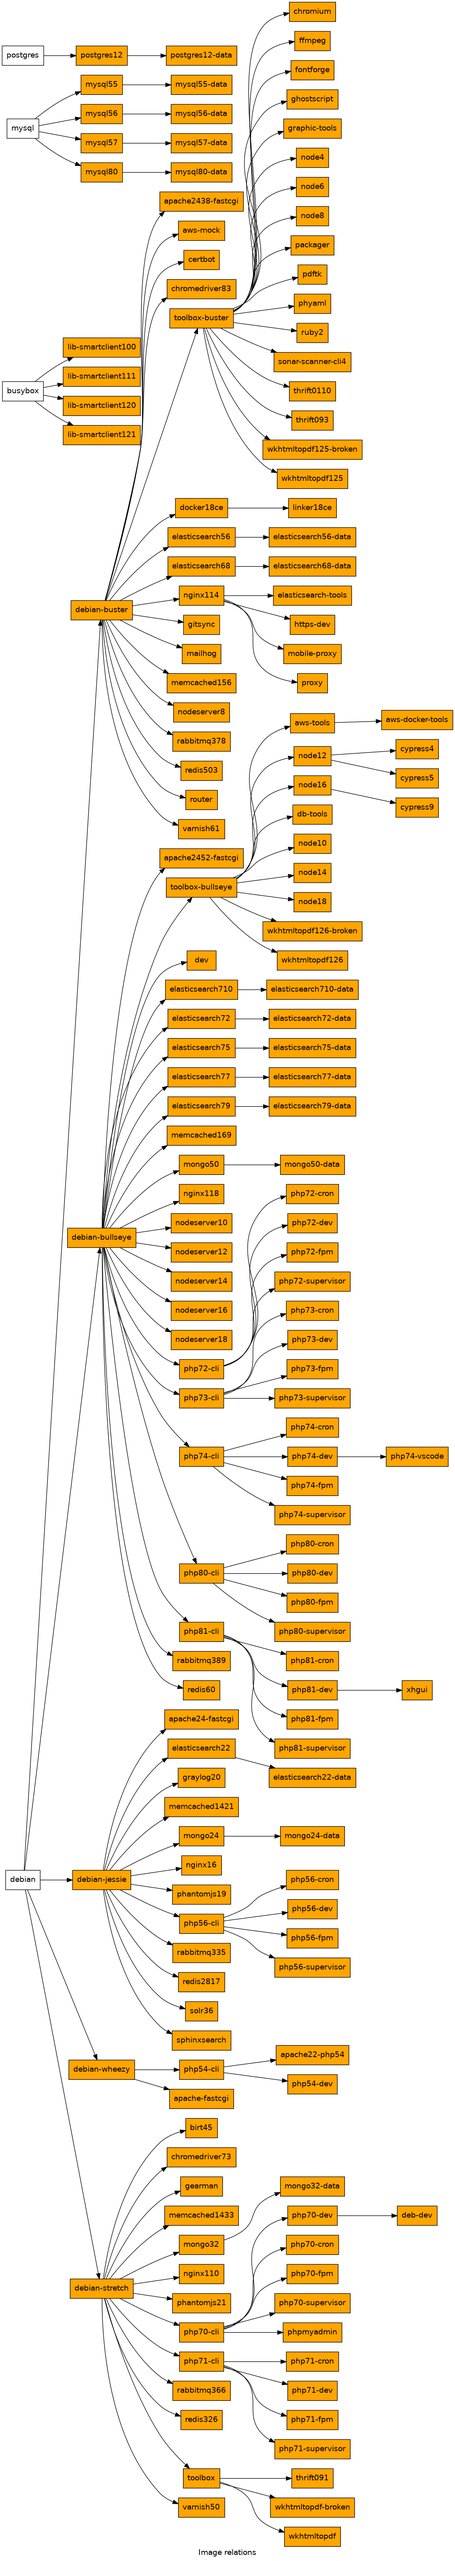
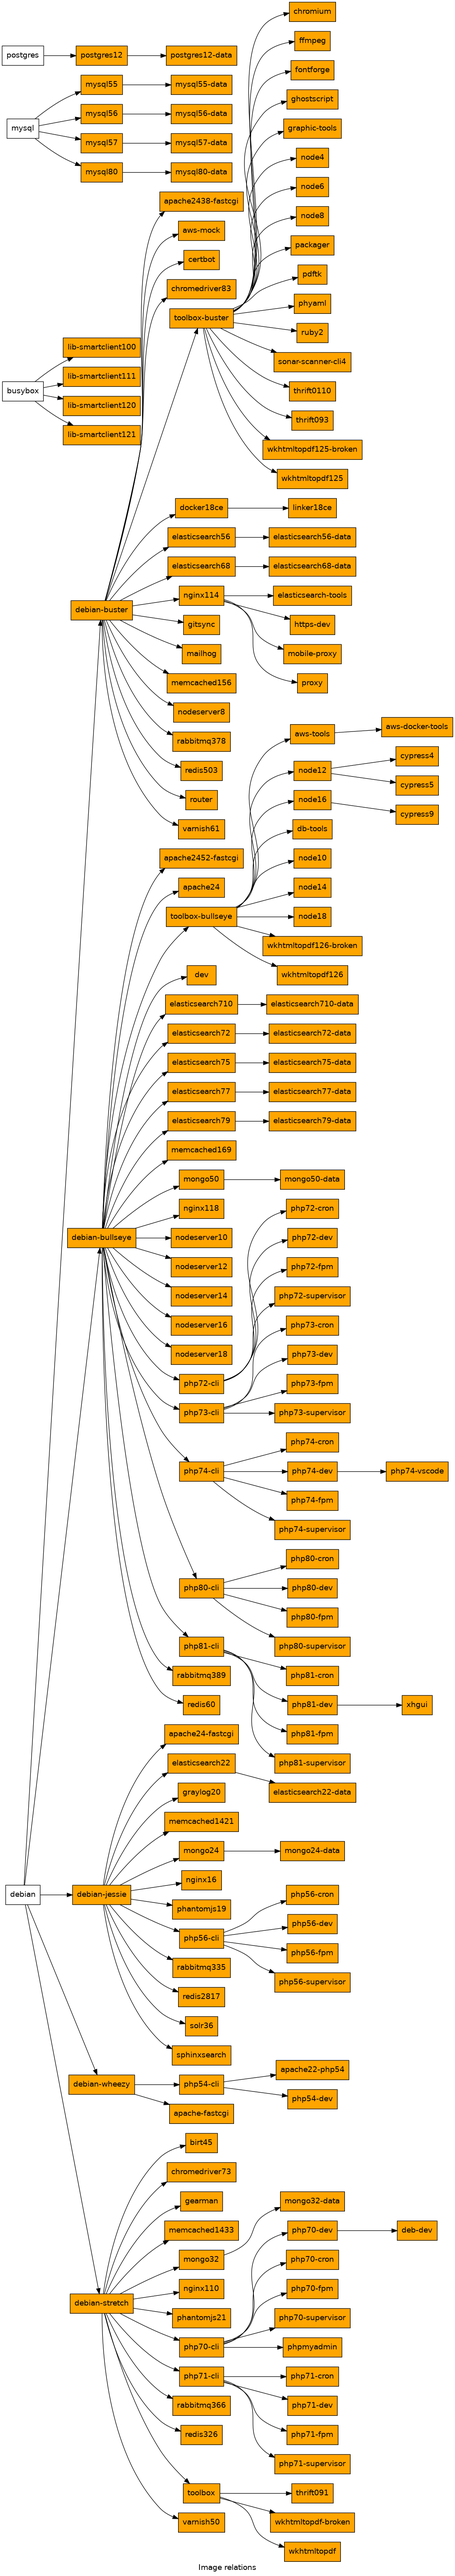
Feature/apache24 (#122)
* New apache24 image with latest version of apache

diff --git a/apache24/README.md b/apache24/README.md
@@ -1,0 +1,168 @@
+## About apache24
+
+This image contains the latest apache release of version 2.4 and will contain latest bugfix versions
+
+
+## supported env vars
+
+example:
+    docker run -it --rm -e NFQ_ENABLE_APACHE_MODULES='rewrite' [this_image]
+
+
+### APACHE_DOCUMENTROOT (optional)
+
+Sets apache document root to specified path. You don't need to change that for
+projects following standard structure.
+
+default value: /home/project/src/www/web
+
+
+### SITES_ENABLED_ROOT (optional)
+
+Location where sites-enabled configuration is stored, full path
+
+default value: sites-enabled
+Note: translates to /etc/apache2/sites-enabled
+
+
+### APACHE_RUN_DIR (optional)
+
+default value: /var/run/apache2
+
+
+### NFQ_FCGI_IDLE_TIMEOUT (optional)
+
+Communication timeout in seconds with remote fastcgi process (eg. php-fpm).
+You'll need to increase this timeout for long running jobs executed via
+webserver.
+
+default value: 30
+
+
+### NFQ_ENABLE_APACHE_MODULES (optional)
+
+Provide space separated lists of modules in a single quoted string
+
+default value: [empty]
+
+#### list of available modules (enabled by default shown in bold)
+
+
+* access_compat
+* __actions__
+* __alias__
+* allowmethods
+* asis
+* __auth_basic__
+* auth_digest
+* auth_form
+* authn_anon
+* __authn_core__
+* authn_dbd
+* authn_dbm
+* __authn_file__
+* authn_socache
+* authnz_fcgi
+* authnz_ldap
+* __authz_core__
+* authz_dbd
+* authz_dbm
+* authz_groupfile
+* __authz_host__
+* authz_owner
+* __authz_user__
+* __autoindex__
+* brotli
+* buffer
+* cache
+* cache_disk
+* cache_socache
+* cern_meta
+* cgi
+* cgid
+* charset_lite
+* data
+* dav
+* dav_fs
+* dav_lock
+* dbd
+* __deflate__
+* dialup
+* __dir__
+* dump_io
+* echo
+* __env__
+* expires
+* ext_filter
+* fcgid
+* file_cache
+* __filter__
+* headers
+* heartbeat
+* heartmonitor
+* http2
+* ident
+* imagemap
+* include
+* info
+* lbmethod_bybusyness
+* lbmethod_byrequests
+* lbmethod_bytraffic
+* lbmethod_heartbeat
+* ldap
+* log_debug
+* log_forensic
+* lua
+* macro
+* md
+* __mime__
+* mime_magic
+* __mpm_event__
+* mpm_prefork
+* mpm_worker
+* __negotiation__
+* __proxy__
+* proxy_ajp
+* proxy_balancer
+* proxy_connect
+* proxy_express
+* __proxy_fcgi__
+* proxy_fdpass
+* proxy_ftp
+* proxy_hcheck
+* proxy_html
+* proxy_http
+* proxy_http2
+* proxy_scgi
+* proxy_uwsgi
+* proxy_wstunnel
+* ratelimit
+* reflector
+* remoteip
+* reqtimeout
+* request
+* rewrite
+* sed
+* session
+* session_cookie
+* session_crypto
+* session_dbd
+* __setenvif__
+* slotmem_plain
+* slotmem_shm
+* socache_dbm
+* socache_memcache
+* socache_redis
+* socache_shmcb
+* speling
+* ssl
+* status
+* substitute
+* suexec
+* unique_id
+* userdir
+* usertrack
+* vhost_alias
+* xml2enc
+
+
